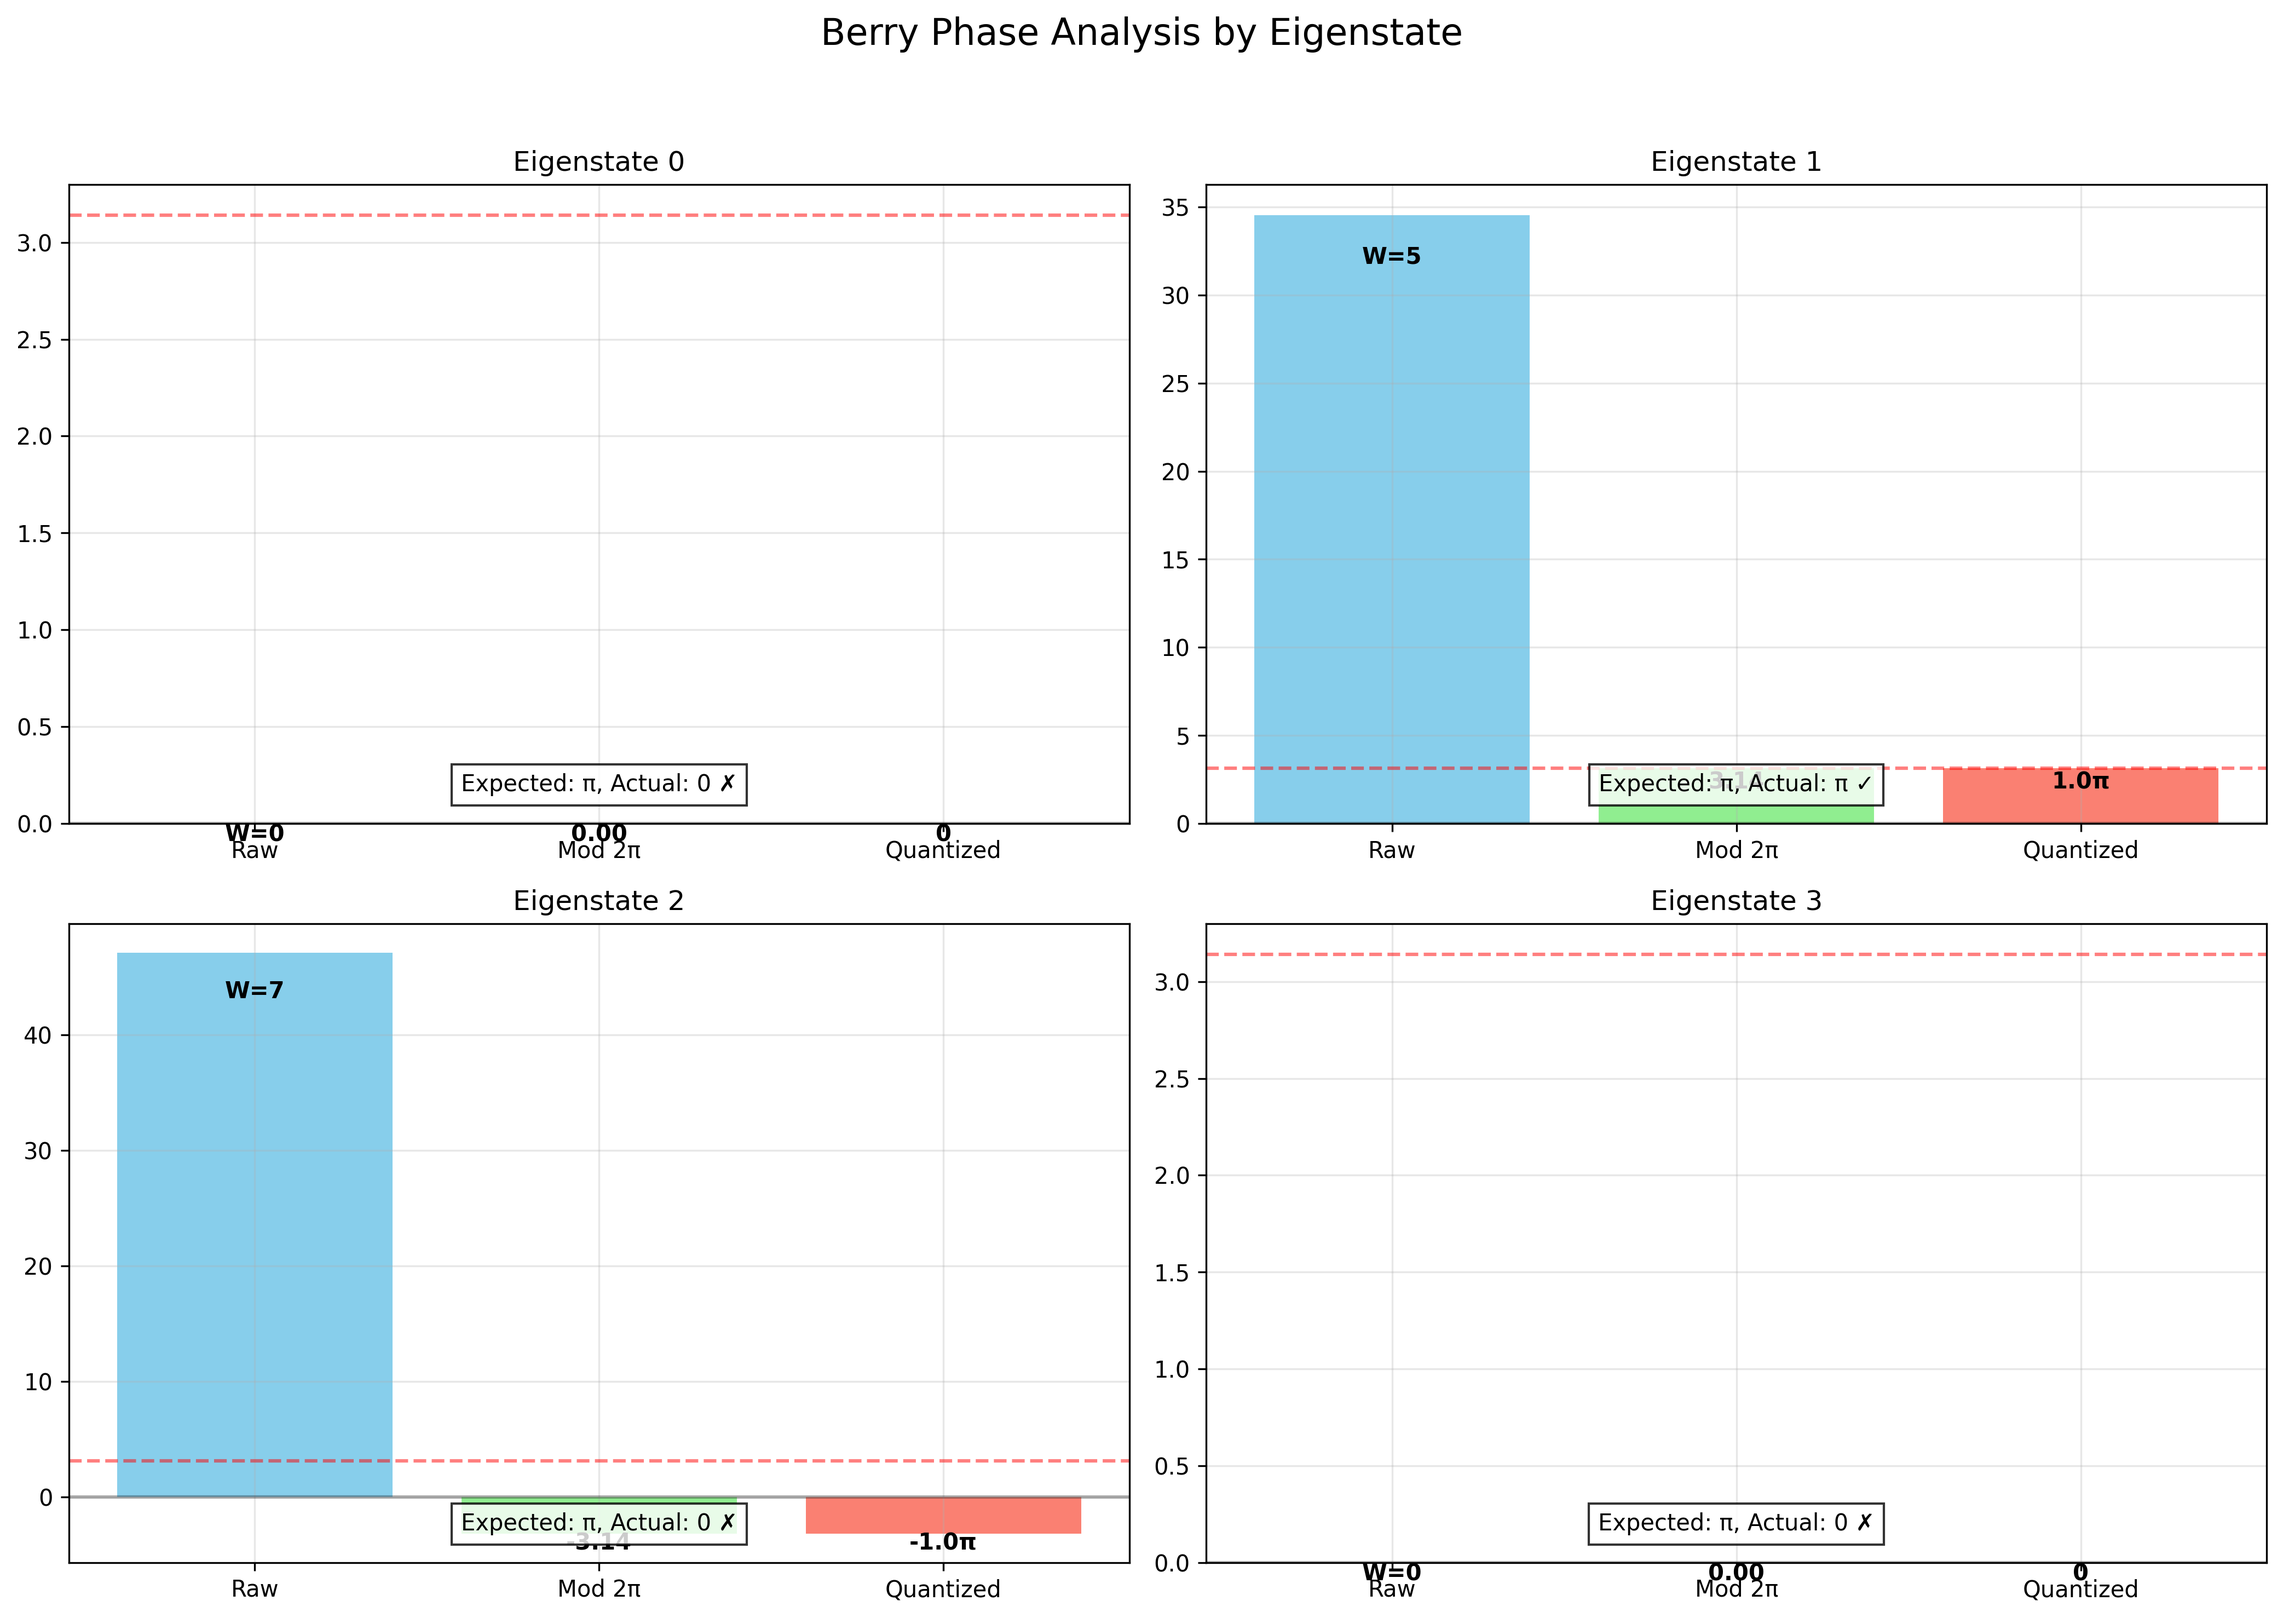
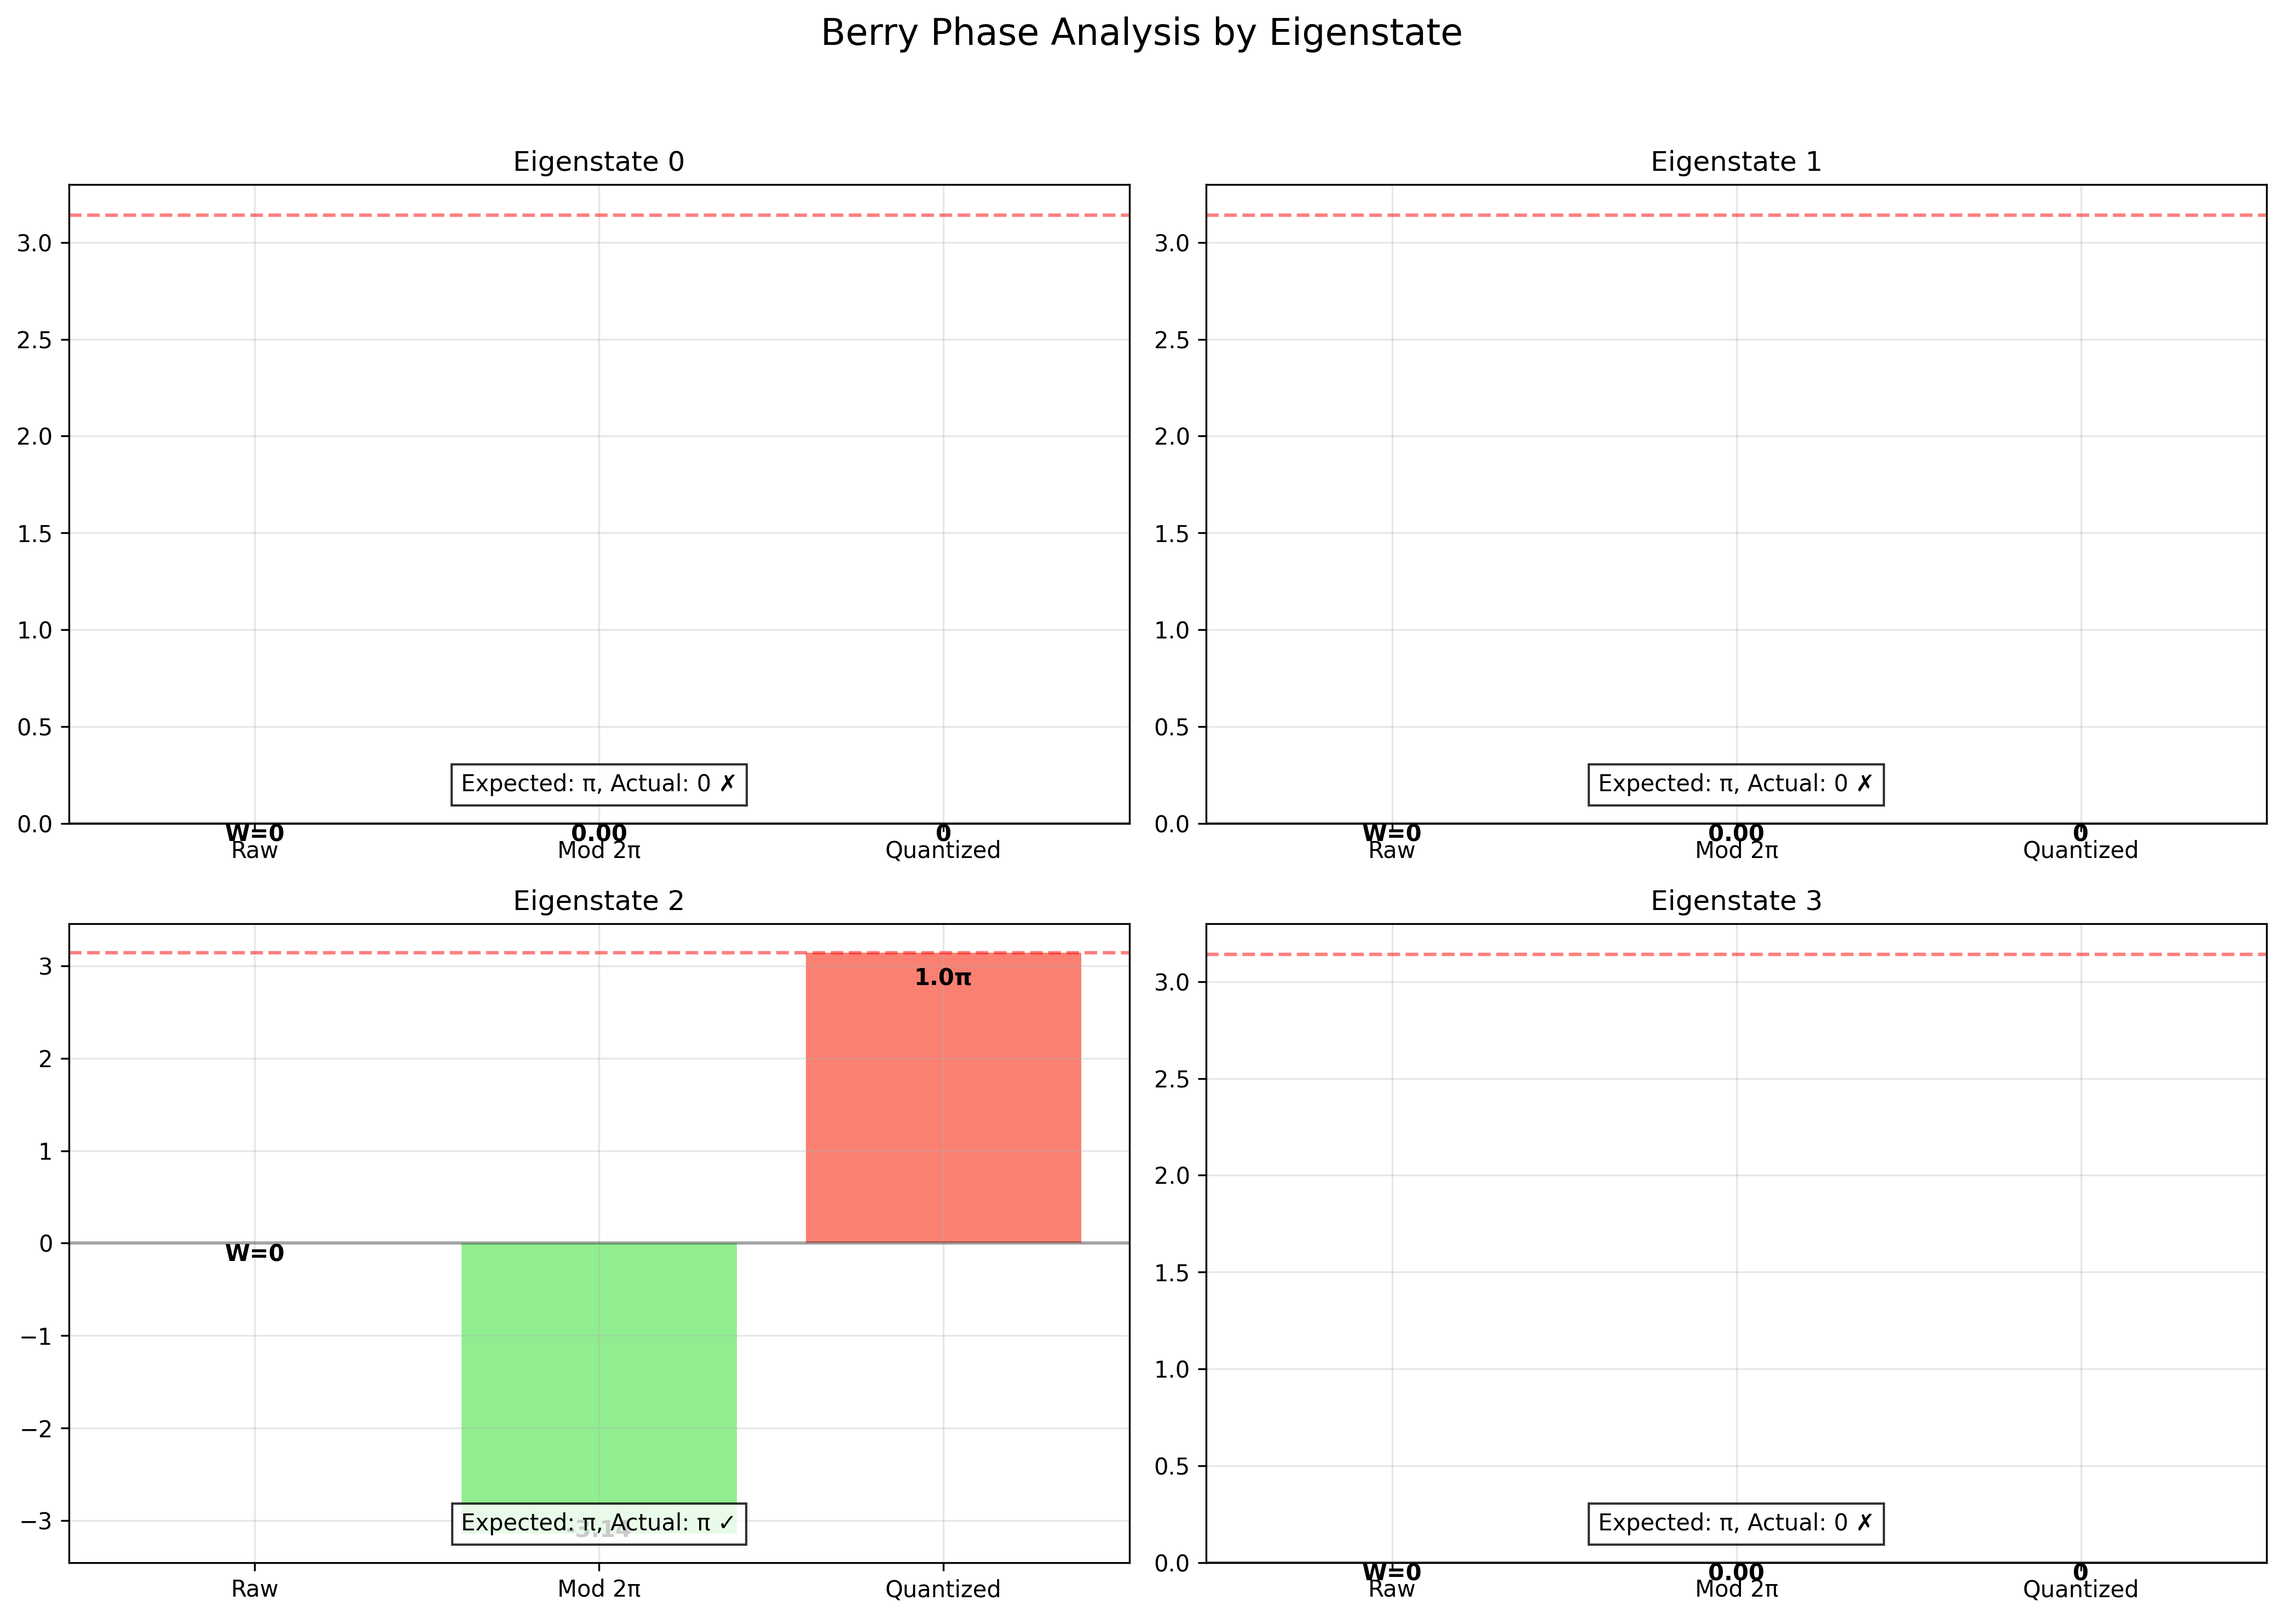
not good, but we are getting somewhere

Changed region(s): [[0.0312, 0.5604, 0.4988, 0.9651], [0.4988, 0.1245, 0.9976, 0.5293]]

diff --git a/new_berry_phase.py b/new_berry_phase.py
@@ -26,6 +26,7 @@ def load_eigenvectors_from_directory(directory):
 def compute_berry_phase(eigenvectors):
     """
     Compute the Berry phase from eigenvector overlaps across theta steps.
+    Handles parity changes in the wavefunction by tracking sign flips.
     """
     num_steps, num_states, _ = eigenvectors.shape  # (theta_steps, states, components)
     berry_phases = np.zeros(num_states)
@@ -42,13 +43,17 @@ def compute_berry_phase(eigenvectors):
                 print(f"Normalizing eigenvector {n} at step {i}. Original norm: {norm:.10f}")
                 eigenvectors[i, :, n] = eigenvectors[i, :, n] / norm
     
-    # Check if the first and last eigenvectors are the same (full cycle)
+    # Create a copy of eigenvectors that we'll modify to account for parity changes
+    adjusted_eigenvectors = eigenvectors.copy()
+    parity_flips = np.zeros((num_states, num_steps), dtype=bool)
+    
+    # Check if the first and last eigenvectors represent the same physical state (ignoring parity)
     is_full_cycle = [False] * num_states
     if num_steps > 1:
         for n in range(num_states):
-            # Calculate dot product between first and last eigenvectors
+            # Calculate dot product between first and last eigenvectors (absolute value to ignore parity)
             dot_product = np.abs(np.vdot(eigenvectors[0, :, n], eigenvectors[-1, :, n]))
-            is_full_cycle[n] = dot_product > 0.999  # If dot product is close to 1, they are aligned
+            is_full_cycle[n] = dot_product > 0.999  # If dot product is close to 1, they represent the same physical state
             print(f"Eigenstate {n} first-last dot product: {dot_product:.6f} (Full cycle: {is_full_cycle[n]})")
 
     # Store phase angles for each eigenstate at each step
@@ -57,22 +62,27 @@ def compute_berry_phase(eigenvectors):
     for n in range(num_states):  # Loop over eigenstates
         phase_sum = 0
         bad_overlaps = 0
+        total_parity_flips = 0
+        
+        # First pass: Adjust eigenvectors to account for parity changes
         for k in range(num_steps - 1):  # Loop over theta steps
             # Calculate overlap between consecutive eigenvectors
-            overlap = np.vdot(eigenvectors[k, :, n], eigenvectors[k + 1, :, n])  # Inner product
+            overlap = np.vdot(adjusted_eigenvectors[k, :, n], eigenvectors[k + 1, :, n])  # Inner product
+            
+            # Check if we need to flip the parity to maintain continuity
+            if np.real(overlap) < 0:  # Negative overlap suggests a parity flip is needed
+                # Flip the sign of the eigenvector to maintain continuity
+                adjusted_eigenvectors[k + 1, :, n] = -eigenvectors[k + 1, :, n]
+                parity_flips[n, k + 1] = True
+                total_parity_flips += 1
+                # Recalculate overlap with adjusted eigenvector
+                overlap = np.vdot(adjusted_eigenvectors[k, :, n], adjusted_eigenvectors[k + 1, :, n])
+            else:
+                adjusted_eigenvectors[k + 1, :, n] = eigenvectors[k + 1, :, n]
+            
             overlap_magnitudes[n, k] = np.abs(overlap)
             
-            # Check if overlap is too small (indicating potential crossing or discontinuity)
-            if overlap_magnitudes[n, k] < 0.1:
-                # Try to fix the phase by checking if -eigenvector gives better overlap
-                alt_overlap = np.vdot(eigenvectors[k, :, n], -eigenvectors[k + 1, :, n])
-                if np.abs(alt_overlap) > overlap_magnitudes[n, k]:
-                    # Use the alternative eigenvector with flipped sign
-                    eigenvectors[k + 1, :, n] = -eigenvectors[k + 1, :, n]
-                    overlap = alt_overlap
-                    overlap_magnitudes[n, k] = np.abs(overlap)
-            
-            # Extract phase angle
+            # Extract phase angle from the adjusted overlap
             phase_angle = np.angle(overlap)
             phase_angles[n, k] = phase_angle
             all_phase_angles[n].append(phase_angle)
@@ -87,10 +97,25 @@ def compute_berry_phase(eigenvectors):
                 elif warning_count == max_warnings:
                     print("Too many warnings, suppressing further overlap warnings...")
                     warning_count += 1
-                
+        
+        # Check if we have a full cycle in the physical sense (ignoring parity)
+        # Calculate overlap between first and adjusted last eigenvectors
+        final_overlap = np.vdot(adjusted_eigenvectors[0, :, n], adjusted_eigenvectors[-1, :, n])
+        final_overlap_magnitude = np.abs(final_overlap)
+        final_phase_angle = np.angle(final_overlap)
+        
+        # If we're close to a full cycle but with opposite parity, adjust the Berry phase
+        if final_overlap_magnitude > 0.999 and np.real(final_overlap) < 0:
+            print(f"Eigenstate {n} has a full cycle with a parity flip. Adjusting Berry phase.")
+            # Add π to the Berry phase to account for the parity flip
+            phase_sum += np.pi
+            # Mark this as a full cycle with parity flip
+            is_full_cycle[n] = True
+        
         berry_phases[n] = phase_sum
         if bad_overlaps > 0:
             print(f"Eigenstate {n} had {bad_overlaps}/{num_steps-1} problematic overlaps")
+        print(f"Eigenstate {n} had {total_parity_flips} parity flips during the cycle")
 
     # Calculate normalized Berry phases and winding numbers
     normalized_phases = []
@@ -190,7 +215,7 @@ def compute_berry_phase(eigenvectors):
     
     return berry_phases, normalized_phases, overlap_magnitudes, phase_angles, winding_numbers, all_phase_angles, quantized_values, quantization_errors, full_cycle_phases
 
-def plot_berry_phase_results(berry_phases, normalized_phases, overlap_magnitudes, phase_angles, num_steps, winding_numbers, all_phase_angles, quantized_values, quantization_errors):
+def plot_berry_phase_results(berry_phases, normalized_phases, overlap_magnitudes, phase_angles, num_steps, winding_numbers, all_phase_angles, quantized_values, quantization_errors, full_cycle_phases):
     """
     Plot comprehensive Berry phase results.
     """
@@ -450,7 +475,7 @@ def main():
         # Plot results with enhanced visualization
         plot_berry_phase_results(berry_phases, normalized_phases, overlap_magnitudes, phase_angles, 
                                eigenvectors.shape[0], winding_numbers, all_phase_angles,
-                               quantized_values, quantization_errors)
+                               quantized_values, quantization_errors, full_cycle_phases)
         
         # Save detailed results to file
         results_dir = 'berry_phase_results'
